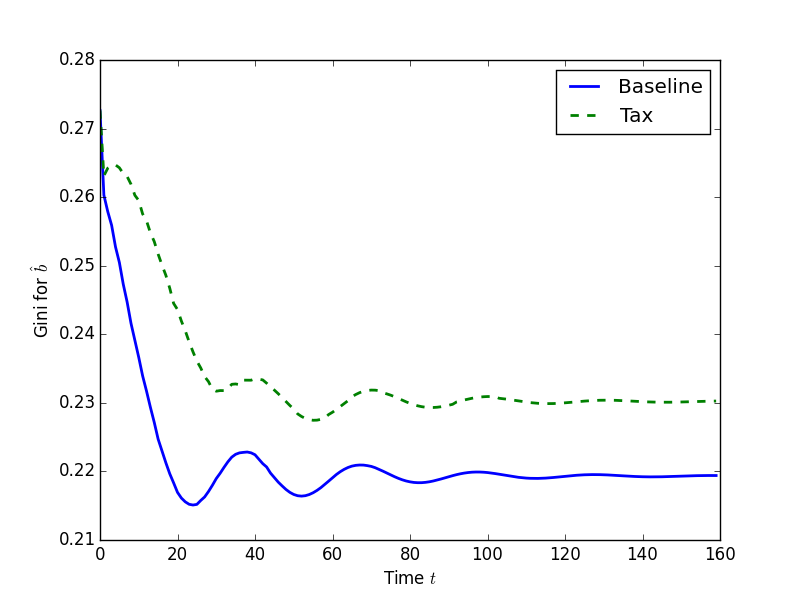
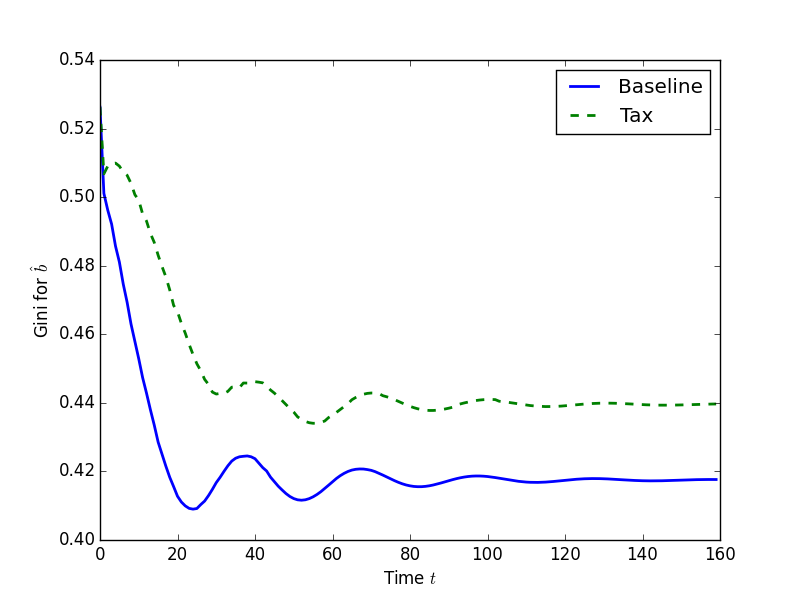
problems with GINI indices

diff --git a/Python/OUTPUT/TPI_graphs.py b/Python/OUTPUT/TPI_graphs.py
@@ -306,47 +306,58 @@ GINI
 def gini_cols(path, omega):
     mask = path < 0
     path[mask] = 0
-    collapseS = path.sum(1)
-    omega_stationary1 = omega_stationary.sum(1)
-    omega_stationary_sorted = omega_stationary1.reshape(T, J)
+    collapseS = (path).sum(1)
+    omega1 = omega.sum(1).reshape(T, J)
     idx = np.argsort(collapseS, axis=1)
-    collapseS = collapseS[:, idx][np.eye(T,T, dtype=bool)]
-    omega_stationary_sorted = omega_stationary_sorted[:, idx][np.eye(T, T, dtype=bool)]
-    Y = collapseS.sum(1)
-    Y_M = np.tile(collapseS.reshape(T, 1, J), (1, J, 1))
-    OME_mat = np.tril(np.tile(omega_stationary_sorted.reshape(T, J, 1), (1, 1, J)), -1)
-    G = .5 - (OME_mat * Y_M).sum(1).sum(1) / Y
+    collapseS2 = collapseS[:, idx][np.eye(T,T, dtype=bool)]
+    omega_sorted = omega1[:, idx][np.eye(T, T, dtype=bool)]
+    # print collapseS2[5]
+    # print omega_sorted[5]
+    total = (collapseS2).sum(1)
+    cum_omega = np.zeros((T, J))
+    cum_levels = np.zeros((T, J))
+    cum_levels[:, 0] = collapseS2[:, 0]
+    cum_omega[:, 0] = omega_sorted[:, 0]
+    for j in xrange(1, J):
+        cum_levels[:, j] = collapseS2[:, j] + cum_levels[:, j-1]
+        cum_omega[:, j] = omega_sorted[:, j] + cum_omega[:, j-1]
+    G = 1 - 2 * (omega_sorted * cum_levels).sum(1) / total
+    # print cum_levels[5]
+    # print cum_omega[5]
     return G
 
 
 def gini_colj(path, omega):
     mask = path < 0
     path[mask] = 0
-    collapseS = path.sum(2)
-    omega_stationary1 = omega_stationary.sum(2)
-    omega_stationary_sorted = omega_stationary1.reshape(T, S)
-    idx = np.argsort(collapseS, axis=1)
-    collapseS = collapseS[:, idx][np.eye(T,T, dtype=bool)]
-    omega_stationary_sorted = omega_stationary_sorted[:, idx][np.eye(T, T, dtype=bool)]
-    Y = collapseS.sum(1)
-    Y_M = np.tile(collapseS.reshape(T, 1, S), (1, S, 1))
-    OME_mat = np.tril(np.tile(omega_stationary_sorted.reshape(T, S, 1), (1, 1, S)), -1)
-    G = .5 - (OME_mat * Y_M).sum(1).sum(1) / Y
+    collapseJ = path.sum(2)
+    omega1 = omega.sum(2).reshape(T, S)
+    idx = np.argsort(collapseJ, axis=1)
+    collapseJ2 = collapseJ[:, idx][np.eye(T,T, dtype=bool)]
+    omega_sorted = omega1[:, idx][np.eye(T, T, dtype=bool)]
+    total = collapseJ2.sum(1)
+    cum_levels = np.zeros((T, S))
+    cum_levels[:, 0] = collapseJ2[:, 0]
+    for s in xrange(1, S):
+        cum_levels[:, s] = collapseJ2[:, s] + cum_levels[:, s-1]
+    G = 1 - 2 * (omega_sorted * cum_levels).sum(1) / total
     return G
 
 
 def gini_nocol(path, omega):
     mask = path < 0
     path[mask] = 0
-    collapseS = path.reshape(T, S*J)
-    omega_stationary_sorted = omega_stationary.reshape(T, S*J)
-    idx = np.argsort(collapseS, axis=1)
-    collapseS = collapseS[:, idx][np.eye(T,T, dtype=bool)]
-    omega_stationary_sorted = omega_stationary_sorted[:, idx][np.eye(T,T, dtype=bool)]
-    Y = collapseS.sum(1)
-    Y_M = np.tile(collapseS.reshape(T, 1, S*J), (1, S*J, 1))
-    OME_mat = np.tril(np.tile(omega_stationary_sorted.reshape(T, S*J, 1), (1, 1, S*J)), -1)
-    G = .5 - (OME_mat * Y_M).sum(1).sum(1) / Y
+    path = path.reshape(T, S*J)
+    omega = omega.reshape(T, S*J)
+    idx = np.argsort(path, axis=1)
+    path2 = path[:, idx][np.eye(T,T, dtype=bool)]
+    omega_sorted = omega[:, idx][np.eye(T,T, dtype=bool)]
+    total = path2.sum(1)
+    cum_levels = np.zeros((T, S*J))
+    cum_levels[:, 0] = path2[:, 0]
+    for i in xrange(1, S*J):
+        cum_levels[:, i] = path2[:, i] + cum_levels[:, i-1]
+    G = 1 - 2 * (omega_sorted * cum_levels).sum(1) / total
     return G
 
 '''
@@ -360,6 +371,16 @@ plt.xlabel(r"Time $t$")
 plt.ylabel(r"Gini for $\hat{b}$")
 plt.legend(loc=0)
 plt.savefig("TPI/gini_b_cols")
+
+print 'start L\n'
+plt.figure()
+plt.plot(np.arange(T), gini_cols(L_mat_init[:T], omega_stationary_init), 'b', linewidth=2, label='Baseline')
+plt.plot(np.arange(T), gini_cols(L_mat[:T], omega_stationary), 'g--', linewidth=2, label="Tax")
+plt.xlabel(r"Time $t$")
+plt.ylabel(r"Gini for $\hat{l}$")
+plt.legend(loc=0)
+plt.savefig("TPI/gini_l_cols")
+print '\nend L'
 
 plt.figure()
 plt.plot(np.arange(T), gini_cols(Y_mat_init[:T], omega_stationary_init), 'b', linewidth=2, label='Baseline')
@@ -386,6 +407,14 @@ plt.legend(loc=0)
 plt.savefig("TPI/gini_b_colj")
 
 plt.figure()
+plt.plot(np.arange(T), gini_colj(L_mat_init[:T], omega_stationary_init), 'b', linewidth=2, label='Baseline')
+plt.plot(np.arange(T), gini_colj(L_mat[:T], omega_stationary), 'g--', linewidth=2, label="Tax")
+plt.xlabel(r"Time $t$")
+plt.ylabel(r"Gini for $\hat{l}$")
+plt.legend(loc=0)
+plt.savefig("TPI/gini_l_colj")
+
+plt.figure()
 plt.plot(np.arange(T), gini_colj(Y_mat_init[:T], omega_stationary_init), 'b', linewidth=2, label='Baseline')
 plt.plot(np.arange(T), gini_colj(Y_mat[:T], omega_stationary), 'g--', linewidth=2, label="Tax")
 plt.xlabel(r"Time $t$")
@@ -408,6 +437,14 @@ plt.xlabel(r"Time $t$")
 plt.ylabel(r"Gini for $\hat{b}$")
 plt.legend(loc=0)
 plt.savefig("TPI/gini_b_nocol")
+
+plt.figure()
+plt.plot(np.arange(T), gini_nocol(L_mat_init[:T], omega_stationary_init), 'b', linewidth=2, label='Baseline')
+plt.plot(np.arange(T), gini_nocol(L_mat[:T], omega_stationary), 'g--', linewidth=2, label="Tax")
+plt.xlabel(r"Time $t$")
+plt.ylabel(r"Gini for $\hat{l}$")
+plt.legend(loc=0)
+plt.savefig("TPI/gini_l_nocol")
 
 plt.figure()
 plt.plot(np.arange(T), gini_nocol(Y_mat_init[:T], omega_stationary_init), 'b', linewidth=2, label='Baseline')
@@ -437,6 +474,13 @@ plt.legend(loc=0)
 plt.savefig("TPIinit/gini_b_cols")
 
 plt.figure()
+plt.plot(np.arange(T), gini_cols(L_mat_init[:T], omega_stationary_init), 'b', linewidth=2, label='Baseline')
+plt.xlabel(r"Time $t$")
+plt.ylabel(r"Gini for $\hat{l}$")
+plt.legend(loc=0)
+plt.savefig("TPIinit/gini_l_cols")
+
+plt.figure()
 plt.plot(np.arange(T), gini_cols(Y_mat_init[:T], omega_stationary_init), 'b', linewidth=2, label='Baseline')
 plt.xlabel(r"Time $t$")
 plt.ylabel(r"Gini for $\hat{y}$")
@@ -458,6 +502,13 @@ plt.legend(loc=0)
 plt.savefig("TPIinit/gini_b_colj")
 
 plt.figure()
+plt.plot(np.arange(T), gini_colj(L_mat_init[:T], omega_stationary_init), 'b', linewidth=2, label='Baseline')
+plt.xlabel(r"Time $t$")
+plt.ylabel(r"Gini for $\hat{l}$")
+plt.legend(loc=0)
+plt.savefig("TPIinit/gini_l_colj")
+
+plt.figure()
 plt.plot(np.arange(T), gini_colj(Y_mat_init[:T], omega_stationary_init), 'b', linewidth=2, label='Baseline')
 plt.xlabel(r"Time $t$")
 plt.ylabel(r"Gini for $\hat{y}$")
@@ -477,6 +528,13 @@ plt.xlabel(r"Time $t$")
 plt.ylabel(r"Gini for $\hat{b}$")
 plt.legend(loc=0)
 plt.savefig("TPIinit/gini_b_nocol")
+
+plt.figure()
+plt.plot(np.arange(T), gini_nocol(L_mat_init[:T], omega_stationary_init), 'b', linewidth=2, label='Baseline')
+plt.xlabel(r"Time $t$")
+plt.ylabel(r"Gini for $\hat{l}$")
+plt.legend(loc=0)
+plt.savefig("TPIinit/gini_l_nocol")
 
 plt.figure()
 plt.plot(np.arange(T), gini_nocol(Y_mat_init[:T], omega_stationary_init), 'b', linewidth=2, label='Baseline')
